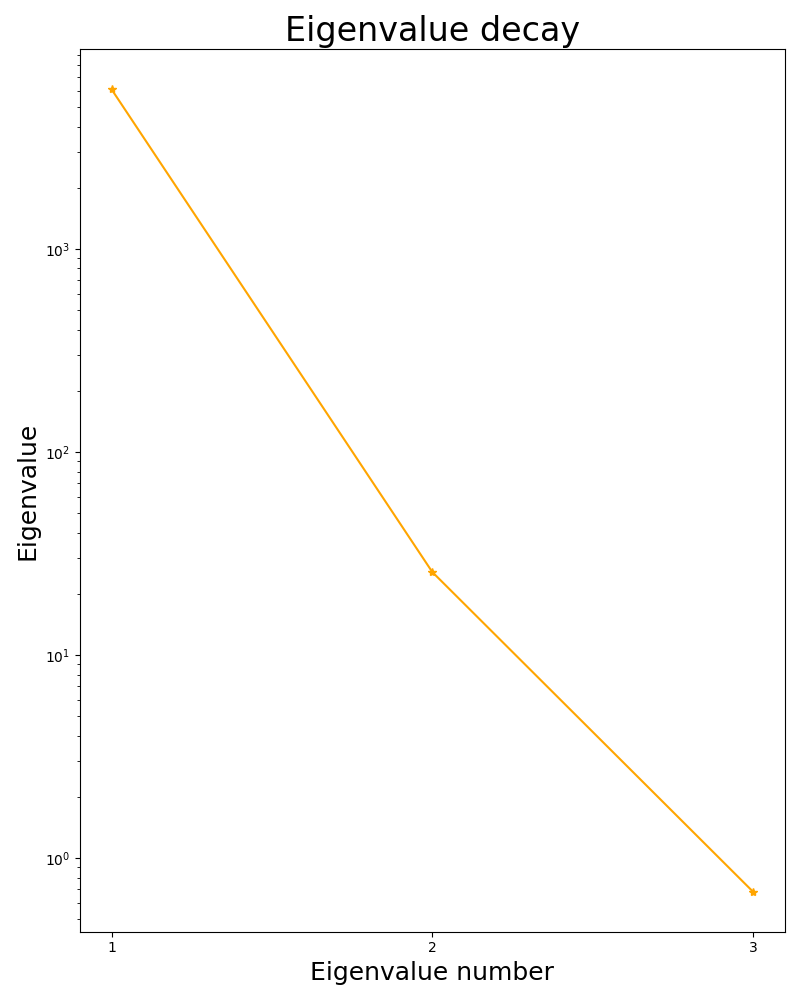
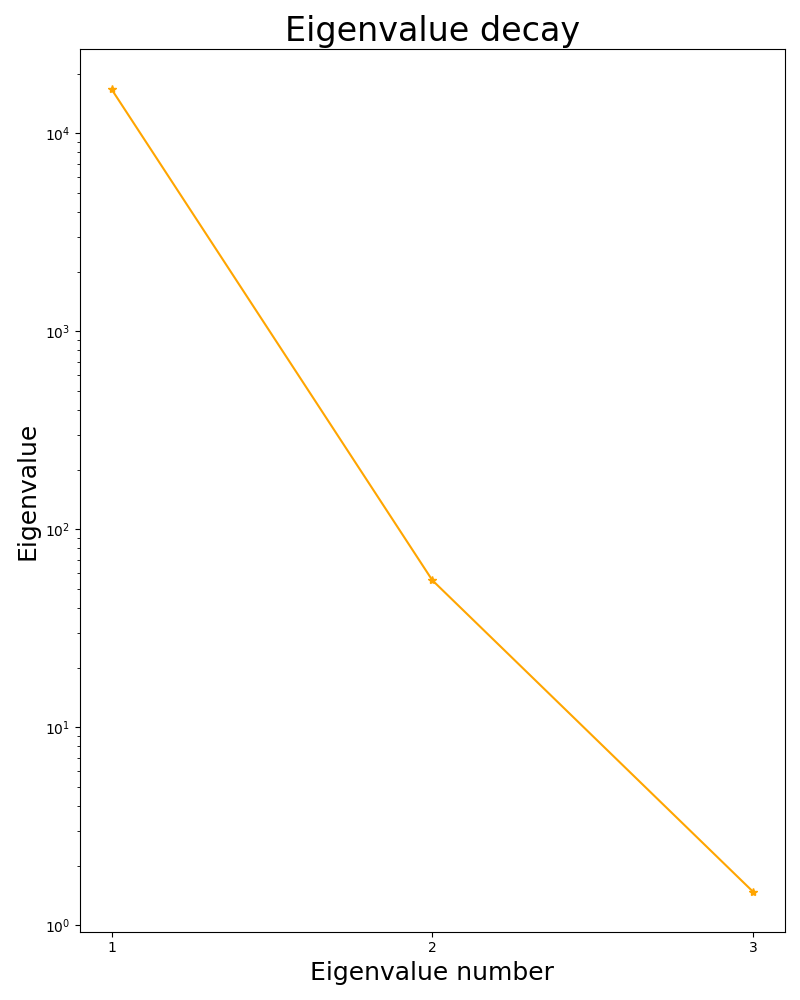
In work

diff --git a/demo/poisson_non_linear_geometric_parametrization_distributed/dlrbnicsx_nonlinear_poisson_distributed.py b/demo/poisson_non_linear_geometric_parametrization_distributed/dlrbnicsx_nonlinear_poisson_distributed.py
@@ -18,7 +18,7 @@ import os
 
 from dlrbnicsx.neural_network.neural_network import HiddenLayersNet
 from dlrbnicsx.activation_function.activation_function_factory \
-    import Tanh
+    import Tanh, Sigmoid
 from dlrbnicsx.dataset.custom_partitioned_dataset \
     import CustomPartitionedDataset
 from dlrbnicsx.interface.wrappers import DataLoader, save_model, \
@@ -145,12 +145,13 @@ class PODANNReducedProblem(abc.ABC):
 
     def __init__(self, problem) -> None:
         self._basis_functions = rbnicsx.backends.FunctionsList(problem._V)
+        self.problem = problem
         u, v = ufl.TrialFunction(problem._V), ufl.TestFunction(problem._V)
         self._inner_product = ufl.inner(u, v) * ufl.dx +\
             ufl.inner(ufl.grad(u), ufl.grad(v)) * ufl.dx
-        self._inner_product_action = \
-            rbnicsx.backends.bilinear_form_action(self._inner_product,
-                                                  part="real")
+        # self._inner_product_action = \
+        #    rbnicsx.backends.bilinear_form_action(self._inner_product,
+        #                                          part="real")
         self.input_scaling_range = [-1., 1.]
         self.output_scaling_range = [-1., 1.]
         self.input_range = \
@@ -161,6 +162,11 @@ class PODANNReducedProblem(abc.ABC):
         self.optimizer = "Adam"
         self.regularisation = "EarlyStopping"
 
+    def _inner_product_action(self, fun_j):
+        def _(fun_i):
+            return fun_i.vector.dot(fun_j.vector)
+        return _
+
     def reconstruct_solution(self, reduced_solution):
         """Reconstructed reduced solution on the high fidelity space."""
         return self._basis_functions[:reduced_solution.size] * \
@@ -169,7 +175,9 @@ class PODANNReducedProblem(abc.ABC):
     def compute_norm(self, function):
         """Compute the norm of a function inner product
         on the reference domain."""
-        return np.sqrt(self._inner_product_action(function)(function))
+        # return np.sqrt(self._inner_product_action(function)(function))
+        return np.sqrt(dolfinx.fem.assemble_scalar(dolfinx.fem.form(ufl.inner(function, function) * ufl.dx +\
+            ufl.inner(ufl.grad(function), ufl.grad(function)) * ufl.dx)))
 
     def project_snapshot(self, solution, N):
         return self._project_snapshot(solution, N)
@@ -189,10 +197,13 @@ class PODANNReducedProblem(abc.ABC):
         ksp.getPC().setType("lu")
         ksp.setFromOptions()
         ksp.solve(F, projected_snapshot)
+
         return projected_snapshot
 
     def norm_error(self, u, v):
-        return self.compute_norm(u-v)/self.compute_norm(u)
+        absolute_error = dolfinx.fem.Function(self.problem._V)
+        absolute_error.x.array[:] = u.x.array - v.x.array
+        return self.compute_norm(absolute_error)/self.compute_norm(u) # self.compute_norm(u-v)/self.compute_norm(u)
 
 
 # MPI communicator variables
@@ -220,16 +231,16 @@ solution_mu = problem_parametric.solve(mu)
 itemsize = MPI.DOUBLE.Get_size()
 para_dim = 3
 num_dofs = solution_mu.x.array.shape[0]
-pod_samples = [3, 3, 3] # [4, 4, 4]
+pod_samples = [5, 5, 5]
 ann_samples = [6, 6, 7]
-error_analysis_samples = [5, 5, 5]
+error_analysis_samples = [6, 4, 6]
 num_snapshots = np.product(pod_samples)
 nbytes_para = itemsize * num_snapshots * para_dim
 nbytes_dofs = itemsize * num_snapshots * num_dofs
 
 # POD Starts ###
 
-def generate_training_set(samples=[4, 4, 4]):
+def generate_training_set(samples=pod_samples):
     training_set_0 = np.linspace(0.2, 0.3, samples[0])
     training_set_1 = np.linspace(-0.2, -0.4, samples[1])
     training_set_2 = np.linspace(1., 4., samples[2])
@@ -289,6 +300,7 @@ eigenvalues, modes, _ = \
     proper_orthogonal_decomposition(snapshots_matrix,
                                     reduced_problem._inner_product_action,
                                     N=Nmax, tol=1e-10)
+
 reduced_problem._basis_functions.extend(modes)
 reduced_size = len(reduced_problem._basis_functions)
 print("")
@@ -321,7 +333,7 @@ print(f"Eigenvalues: {positive_eigenvalues}")
 # ### POD Ends ###
 
 # ### ANN implementation ###
-def generate_ann_input_set(samples=[4, 4, 4]):
+def generate_ann_input_set(samples=ann_samples):
     # Select samples from the parameter space for ANN
     training_set_0 = np.linspace(0.2, 0.3, samples[0])
     training_set_1 = np.linspace(-0.2, -0.4, samples[1])
@@ -353,7 +365,7 @@ itemsize = MPI.DOUBLE.Get_size()
 
 if world_comm.rank == 0:
     ann_input_set = generate_ann_input_set(samples=ann_samples)
-    # np.random.shuffle(ann_input_set)
+    np.random.shuffle(ann_input_set)
     nbytes_para_ann_training = num_training_samples * itemsize * para_dim
     nbytes_dofs_ann_training = num_training_samples * itemsize * \
         len(reduced_problem._basis_functions)
@@ -457,15 +469,15 @@ if cpu_group0_comm != MPI.COMM_NULL:
 
     customDataset = CustomPartitionedDataset(reduced_problem, input_training_set,
                                              output_training_set, training_set_indices_cpu)
-    train_dataloader = DataLoader(customDataset, batch_size=10, shuffle=False)# shuffle=True)
+    train_dataloader = DataLoader(customDataset, batch_size=50, shuffle=True)
 
     customDataset = CustomPartitionedDataset(reduced_problem, input_validation_set,
                                             output_validation_set, validation_set_indices_cpu)
     valid_dataloader = DataLoader(customDataset, shuffle=False)
 
     path = "model.pth"
-    # save_model(model, path)
-    load_model(model, path)
+    save_model(model, path)
+    # load_model(model, path)
 
     model_synchronise(model, verbose=True)
 
@@ -479,7 +491,7 @@ if cpu_group0_comm != MPI.COMM_NULL:
     checkpoint_path = "checkpoint"
     checkpoint_epoch = 10
 
-    learning_rate = 1e-4
+    learning_rate = 1.e-4
     optimiser = get_optimiser(model, "Adam", learning_rate)
     loss_fn = get_loss_func("MSE", reduction="sum")
 
@@ -568,7 +580,8 @@ world_comm.Barrier()
 
 if world_comm.rank == 0:
     # Online phase at parameter online_mu
-    online_mu = np.array([0.25, -0.3, 2.5])
+    # online_mu = np.array([0.25, -0.3, 2.5])
+    online_mu = np.array([0.25, -0.3, 3.])
     fem_solution = problem_parametric.solve(online_mu)
     # First compute the RB solution using online_nn.
     # Next this solution is reconstructed on FE space

diff --git a/demo/stokes_flow_dlrbnicsx_distributed/dlrbnicsx_stokes_equation_distributed.py b/demo/stokes_flow_dlrbnicsx_distributed/dlrbnicsx_stokes_equation_distributed.py
@@ -308,9 +308,9 @@ para_dim = 2
 num_dofs_u = solution_vel_mu.x.array.shape[0]
 num_dofs_p = solution_pre_mu.x.array.shape[0]
 
-pod_samples = [3, 3]
-ann_samples = [3, 4]
-error_analysis_samples = [4, 3]
+pod_samples = [5, 5]
+ann_samples = [7, 7]
+error_analysis_samples = [4, 4]
 num_snapshots = np.product(pod_samples)
 
 if world_comm.rank == 0:
@@ -325,7 +325,7 @@ else:
 # POD Starts ###
 
 
-def generate_training_set(samples=pod_samples):  # (samples=[6, 6]):
+def generate_training_set(samples=pod_samples):
     # Select input samples for POD
     training_set_0 = np.linspace(0.5, 1., samples[0])
     training_set_1 = np.linspace(0.5, 1., samples[1])
@@ -490,7 +490,7 @@ itemsize = MPI.DOUBLE.Get_size()
 
 if world_comm.rank == 0:
     ann_input_set = generate_ann_input_set(samples=ann_samples)
-    # np.random.shuffle(ann_input_set)
+    np.random.shuffle(ann_input_set)
     nbytes_para_ann_training = num_training_samples * itemsize * para_dim
     nbytes_dofs_ann_training_u = num_training_samples * itemsize * \
         len(reduced_problem._basis_functions_u)
@@ -632,7 +632,7 @@ if cpu_group0_comm != MPI.COMM_NULL:
                                              output_scaling_range=reduced_problem.output_scaling_range_u,
                                              input_range=reduced_problem.input_range_u,
                                              output_range=reduced_problem.output_range_u, verbose=False)
-    train_dataloader_u = DataLoader(customDataset, batch_size=3, shuffle=False)# shuffle=True)
+    train_dataloader_u = DataLoader(customDataset, batch_size=3, shuffle=True)
 
     customDataset = CustomPartitionedDataset(reduced_problem, input_validation_set,
                                              output_validation_set_u, validation_set_indices_cpu_u,
@@ -643,8 +643,8 @@ if cpu_group0_comm != MPI.COMM_NULL:
     valid_dataloader_u = DataLoader(customDataset, shuffle=False)
 
     path = "model_u.pth"
-    # save_model(model_u, path)
-    load_model(model_u, path)
+    save_model(model_u, path)
+    # load_model(model_u, path)
 
     model_synchronise(model_u, verbose=True)
 
@@ -652,7 +652,7 @@ if cpu_group0_comm != MPI.COMM_NULL:
     training_loss_u = list()
     validation_loss_u = list()
 
-    max_epochs_u = 50 # 20000
+    max_epochs_u = 20000
     min_validation_loss_u = None
     start_epoch = 0
     checkpoint_path_u = "checkpoint_u"
@@ -672,7 +672,7 @@ if cpu_group0_comm != MPI.COMM_NULL:
         if epochs > 0 and epochs % checkpoint_epoch_u == 0:
             save_checkpoint(checkpoint_path_u, epochs, model_u, optimiser_u,
                             min_validation_loss_u)
-        print(f"Epoch: {epochs+1}/{max_epochs_u}")
+        print(f"Epoch (Velocity): {epochs+1}/{max_epochs_u}")
         current_training_loss = train_nn(reduced_problem, train_dataloader_u,
                                          model_u, loss_fn_u, optimiser_u)
         training_loss_u.append(current_training_loss)
@@ -689,9 +689,6 @@ if cpu_group0_comm != MPI.COMM_NULL:
         min_validation_loss_u = min(validation_loss_u)
     end_time = time.time()
     elapsed_time_u = end_time - start_time
-
-model_root_process = 0
-share_model(model_u, world_comm, model_root_process)
 
 print("\n")
 
@@ -714,7 +711,7 @@ if cpu_group1_comm != MPI.COMM_NULL:
                                              output_scaling_range=reduced_problem.output_scaling_range_p,
                                              input_range=reduced_problem.input_range_p,
                                              output_range=reduced_problem.output_range_p, verbose=False)
-    train_dataloader_p = DataLoader(customDataset, batch_size=3, shuffle=False)# shuffle=True)
+    train_dataloader_p = DataLoader(customDataset, batch_size=3, shuffle=True)
 
     customDataset = CustomPartitionedDataset(reduced_problem, input_validation_set,
                                              output_validation_set_p, validation_set_indices_cpu_p,
@@ -725,8 +722,8 @@ if cpu_group1_comm != MPI.COMM_NULL:
     valid_dataloader_p = DataLoader(customDataset, shuffle=False)
 
     path = "model_p.pth"
-    # save_model(model_p, path)
-    load_model(model_p, path)
+    save_model(model_p, path)
+    # load_model(model_p, path)
 
     model_synchronise(model_p, verbose=True)
 
@@ -734,7 +731,7 @@ if cpu_group1_comm != MPI.COMM_NULL:
     training_loss_p = list()
     validation_loss_p = list()
 
-    max_epochs_p = 50 # 20000
+    max_epochs_p = 20000
     min_validation_loss_p = None
     start_epoch = 0
     checkpoint_path_p = "checkpoint_p"
@@ -754,7 +751,7 @@ if cpu_group1_comm != MPI.COMM_NULL:
         if epochs > 0 and epochs % checkpoint_epoch_p == 0:
             save_checkpoint(checkpoint_path_p, epochs, model_p, optimiser_p,
                             min_validation_loss_p)
-        print(f"Epoch: {epochs+1}/{max_epochs_p}")
+        print(f"Epoch (Pressure): {epochs+1}/{max_epochs_p}")
         current_training_loss = train_nn(reduced_problem, train_dataloader_p,
                                          model_p, loss_fn_p, optimiser_p)
         training_loss_p.append(current_training_loss)
@@ -772,10 +769,13 @@ if cpu_group1_comm != MPI.COMM_NULL:
     end_time = time.time()
     elapsed_time_p = end_time - start_time
 
+world_comm.Barrier()
 
+model_root_process_u = 0
+share_model(model_u, world_comm, model_root_process_u)
 
-model_root_process = 2
-share_model(model_p, world_comm, model_root_process)
+model_root_process_p = 2
+share_model(model_p, world_comm, model_root_process_p)
 
 if cpu_group0_comm != MPI.COMM_NULL:
     os.system(f"rm {checkpoint_path_u}")
@@ -794,7 +794,7 @@ else:
 
 world_comm.Bcast(error_analysis_set_u, root=0)
 
-world_comm.Barrier()
+# world_comm.Barrier()
 error_numpy_u = np.zeros(error_analysis_set_u.shape[0])
 error_numpy_recv_u = np.zeros(error_analysis_set_u.shape[0])
 indices = np.arange(rank, error_analysis_set_u.shape[0], size)

diff --git a/demo/poisson_non_linear_geometric_parametrization_distributed/mesh_data/mesh.py b/demo/poisson_non_linear_geometric_parametrization_distributed/mesh_data/mesh.py
@@ -7,12 +7,13 @@ import dolfinx
 gmsh.initialize('', False)
 
 lc = 0.04
+lc_fine = 0.005
 gdim = 2
 
 gmsh.model.geo.addPoint(0., 0., 0., lc, 1)
 gmsh.model.geo.addPoint(1., 0., 0., lc, 2)
-gmsh.model.geo.addPoint(1., 1., 0., lc, 3)
-gmsh.model.geo.addPoint(0., 1., 0., lc, 4)
+gmsh.model.geo.addPoint(1., 1., 0., lc_fine, 3)
+gmsh.model.geo.addPoint(0., 1., 0., lc_fine, 4)
 
 gmsh.model.geo.addLine(1, 2, 1)
 gmsh.model.geo.addLine(2, 3, 2)
